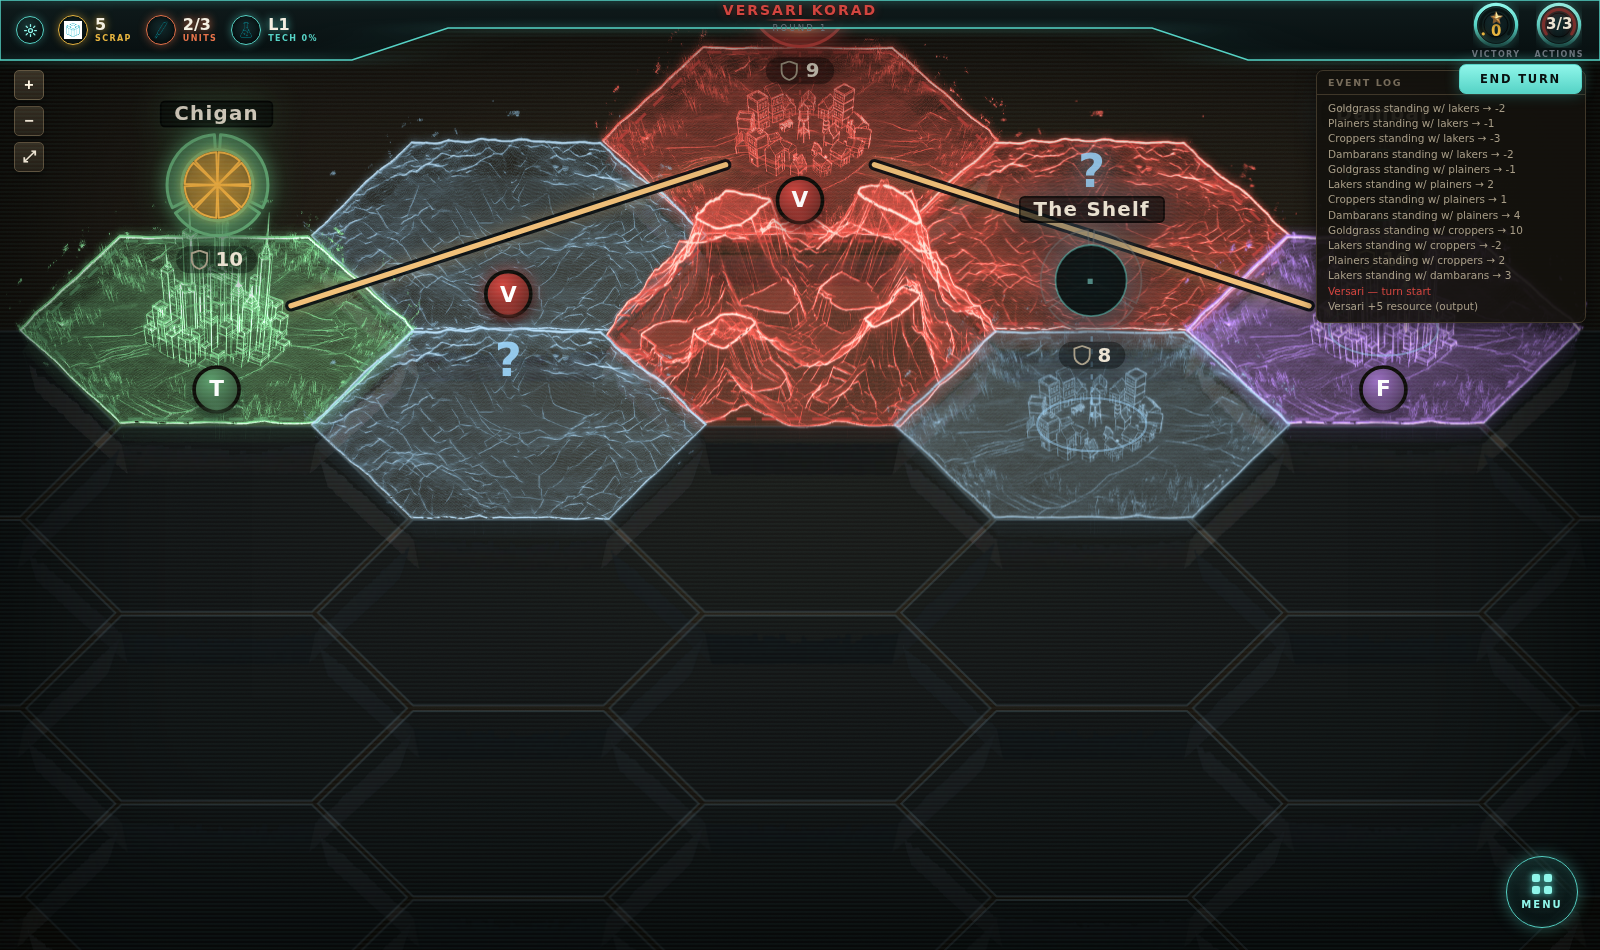
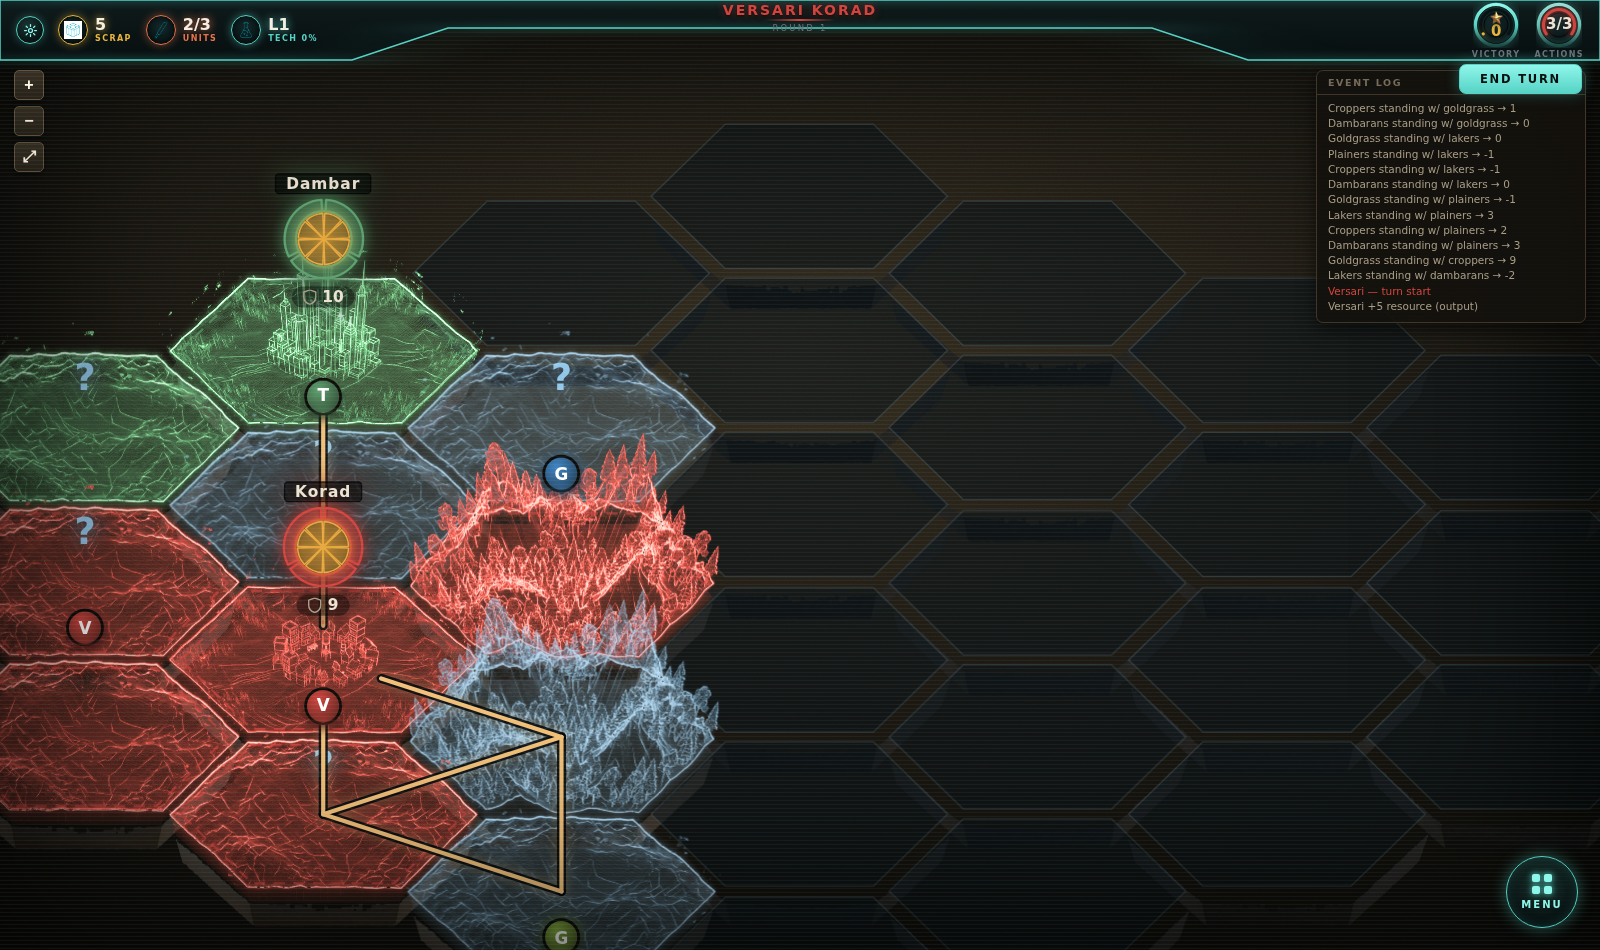
Roads connect settlements; lift the tiles slightly off each other
GAP 1.0 -> 1.05. Flush was mathematically right but the plinths touched and
the board read as one poured slab; a few percent of air brings back the sense
of separate pieces without opening real gaps in the grid.

Roads now link settlements rather than the four capitals. Every Location gets
a road to its nearest neighbour, high/veryHigh ones also to their second
nearest (CONFIG.roads.linksByValue), and any leftover clusters are bridged by
the cheapest links until the network is connected -- a road system with
unreachable islands would silently break supply and blockade. Verified across
40 seeds: every settlement sits on a road and reaches every other settlement
travelling only on road hexes.

This is what gives the blockade design something to bite on.
docs/rail-road-blockade-design.md funds a blockade through "an uninterrupted
road connection to the nearest owned settlement", which only means anything
if such a connection generally exists; under the old capitals-only spanning
tree it usually did not.

Density goes from ~11 road hexes of 30 to ~17, measured over the same 40
seeds. That is a real movement change, not just a cosmetic one -- road
negates forest cost and the mountain halt, so a bit over half the board is
now fast lane. Flagged rather than pre-emptively tuned; linksByValue is the
dial if it proves too generous.

Claude-Session: https://claude.ai/code/session_01CFR3jPAkaNDiE6VcyX7AG5

diff --git a/src/game/board.js b/src/game/board.js
@@ -220,33 +220,76 @@ export function shortestPathHexes(adjacency, a, b) {
   return path;
 }
 
-// §16.2 roads — lay a deterministic road network: a minimum spanning tree
-// (Prim's, by hop distance) over the given `hubHexes` — the faction capitals —
-// with each tree edge's shortest path stamped `road`. The result is a few main
-// corridors between the powers (negating terrain movement cost along them), so
-// the wilderness off-road still matters and the roads become contested lanes.
-// Operates on the live `hexes` map (sets hexes[id].road = true).
-export function assignRoads(adjacency, hexes, hubHexes) {
-  const hubs = [...new Set(hubHexes)].filter((h) => hexes[h]);
-  if (hubs.length < 2) return;
+// §16.2 roads — roads connect SETTLEMENTS, because that is what makes them
+// mean something. A road that merely links the four capitals is a handful of
+// corridors through empty country; a road network that ties every Location to
+// its neighbours is the thing a blockade can actually cut
+// (docs/rail-road-blockade-design.md §3 funds a blockade through "an
+// uninterrupted road connection to the nearest owned settlement" — that
+// sentence only has teeth if such a connection generally exists).
+//
+// The rule:
+//   * every settlement gets a road to its NEAREST other settlement;
+//   * a settlement big enough (CONFIG.roads.linksByValue) also gets one to its
+//     SECOND nearest, which is what turns a chain into a network;
+//   * finally, if that still leaves separate clusters, the cheapest links
+//     between them are added until the network is connected — a road system
+//     with unreachable islands would silently break supply and blockade.
+//
+// Links are undirected and deduplicated, so A→B and B→A lay one road. Every
+// link stamps `road` along a shortest hex path, so roads remain a per-hex
+// terrain property exactly as before; only which hexes get stamped changes.
+export function assignRoads(adjacency, hexes, settlementHexes, valueOfHex = () => "medium") {
+  const nodes = [...new Set(settlementHexes)].filter((h) => hexes[h]);
+  if (nodes.length < 2) return [];
   const distCache = {};
   const distFrom = (h) => (distCache[h] ||= bfsDistances(adjacency, h));
-  const inTree = new Set([hubs[0]]);
-  while (inTree.size < hubs.length) {
+
+  const links = new Map(); // "a|b" (sorted) -> [a, b]
+  const addLink = (a, b) => {
+    if (a === b) return;
+    const key = a < b ? `${a}|${b}` : `${b}|${a}`;
+    if (!links.has(key)) links.set(key, a < b ? [a, b] : [b, a]);
+  };
+
+  // nearest / second-nearest, ties broken by hexId so the map is deterministic
+  for (const a of nodes) {
+    const da = distFrom(a);
+    const ranked = nodes
+      .filter((b) => b !== a && da[b] !== undefined)
+      .sort((p, q) => (da[p] - da[q]) || (p < q ? -1 : 1));
+    const want = CONFIG.roads.linksByValue[valueOfHex(a)] ?? 1;
+    for (let i = 0; i < Math.min(want, ranked.length); i++) addLink(a, ranked[i]);
+  }
+
+  // union-find over the links so far, then bridge any remaining clusters
+  const parent = {};
+  const find = (x) => (parent[x] === undefined || parent[x] === x ? (parent[x] = x)
+    : (parent[x] = find(parent[x])));
+  const union = (x, y) => { parent[find(x)] = find(y); };
+  for (const [a, b] of links.values()) union(a, b);
+  for (;;) {
+    const roots = new Set(nodes.map(find));
+    if (roots.size <= 1) break;
     let best = null;
-    for (const a of inTree) {
+    for (const a of nodes) {
       const da = distFrom(a);
-      for (const b of hubs) {
-        if (inTree.has(b)) continue;
-        const d = da[b];
-        if (d === undefined) continue;
-        if (!best || d < best.d || (d === best.d && b < best.b)) best = { a, b, d };
+      for (const b of nodes) {
+        if (find(a) === find(b) || da[b] === undefined) continue;
+        if (!best || da[b] < best.d || (da[b] === best.d && `${a}|${b}` < `${best.a}|${best.b}`)) {
+          best = { a, b, d: da[b] };
+        }
       }
     }
-    if (!best) break;
-    inTree.add(best.b);
-    for (const hex of shortestPathHexes(adjacency, best.a, best.b)) hexes[hex].road = true;
+    if (!best) break; // genuinely unreachable on this graph — nothing to add
+    addLink(best.a, best.b);
+    union(best.a, best.b);
   }
+
+  for (const [a, b] of links.values()) {
+    for (const hex of shortestPathHexes(adjacency, a, b)) hexes[hex].road = true;
+  }
+  return [...links.values()];
 }
 
 // Constrained-random layout: place the 10 Locations, then fill the rest

diff --git a/src/prototype/hexProjection.js b/src/prototype/hexProjection.js
@@ -50,13 +50,12 @@ export const HEX_H = FRAME.hexH * UNIT_Y;     // projected height of the top fac
 export const HEX_FLAT = FRAME.hexFlat * UNIT; // length of the top/bottom edges
 export const SKIRT_H = FRAME.skirt * UNIT_Y;  // plinth depth below the near edge
 
-// Tiles pack flush: the plinths meet and the board reads as one continuous map
-// table rather than a scatter of floating dioramas. The cost is occlusion —
-// the art reaches up to ~290 source units above the centreline against a
-// 428-unit vertical pitch, so a tall tile hides part of the tile behind it —
-// and that is an accepted trade. Raising this above 1 floats the tiles apart
-// again and buys the clearance back.
-export const GAP = 1.0;
+// Tiles sit just clear of each other. 1.0 is flush — mathematically correct,
+// but the plinths then touch and the board reads as one poured slab with no
+// seam to tell tiles apart. A few percent of air restores the sense of
+// separate pieces on a table without opening real gaps in the hex grid.
+// Raise it further to float the tiles properly apart.
+export const GAP = 1.05;
 // Tiling vectors for a hexagon with opposite sides parallel and equal. The
 // familiar 0.75 * W only holds for a REGULAR hexagon (flat edge = W/2); these
 // rectified tiles are regular, so this reduces to the textbook 0.75 * W — but

diff --git a/src/game/config.js b/src/game/config.js
@@ -113,6 +113,16 @@ export const CONFIG = {
   // across the board; the Loyalty-6 bonus slot still adds one more.
   chipSlotsByValue: { low: 1, medium: 2, high: 3, veryHigh: 4 },
 
+  // §16.2 roads. Every settlement is road-linked to its nearest neighbour;
+  // bigger ones also reach their second-nearest, which is what turns a chain
+  // of towns into a network with alternate routes worth cutting. Raising the
+  // high/veryHigh numbers thickens the network (and makes blockades less
+  // decisive, since traffic can route around); lowering them to 1 across the
+  // board yields a bare spanning chain.
+  roads: {
+    linksByValue: { low: 1, medium: 1, high: 2, veryHigh: 2 },
+  },
+
   // The v0.1 test board.
   testMap: [3, 4, 5, 6, 5, 4, 3], // 30 hexes
   hexSplit: { location: 10, encounter: 13, terrain: 7 },

diff --git a/src/game/setup.js b/src/game/setup.js
@@ -73,7 +73,12 @@ export function createGame({
   // §16.2 — lay road corridors between the faction capitals (deterministic
   // MST over the start hexes). Roads negate terrain movement cost along the
   // lane (a fast, contestable highway); cover/visibility are unaffected.
-  assignRoads(grid.adjacency, hexes, Object.values(layout.factionStart));
+  // Roads tie settlements together, not just capitals — see assignRoads. The
+  // value lookup drives how many links each one gets, so a city is a hub and a
+  // town is a stop on the way.
+  const settlementHexes = Object.keys(layout.placement);
+  assignRoads(grid.adjacency, hexes, settlementHexes,
+    (hexId) => LOCATIONS[layout.placement[hexId]]?.strategicValue || "medium");
 
   // --- players ---
   const players = {};

diff --git a/docs/holographic-hex-board-plan.md b/docs/holographic-hex-board-plan.md
@@ -183,6 +183,14 @@ This is a genuine upgrade over the current black/50%-dim treatment.
 
 ### 2.8 Roads and rails ride over the tiles
 
+Roads connect **settlements**, not just capitals: every Location is road-linked
+to its nearest neighbour, and `high`/`veryHigh` ones also to their second
+nearest, with cluster-bridging links added afterwards so the network is always
+connected (`assignRoads`, `CONFIG.roads.linksByValue`). That takes the network
+from ~11 road hexes of 30 to ~17, and it is what gives the blockade design its
+teeth — "an uninterrupted road connection to the nearest owned settlement"
+(rail/blockade doc §3) only means something if such a connection exists.
+
 `hex.road` is a per-hex boolean, not an edge list, so `RouteNetwork.jsx`
 recovers a drawable network by linking each road hex to its road neighbours —
 re-deriving adjacency with the engine's own rule rather than from screen
@@ -380,12 +388,13 @@ open coast 3, coast town 1, coast city 1. Flat is the pool that matters most —
 the same `plains_hills`. Two or three more plain/rolling inland masters would
 fix roughly half the board.
 
-**Q10 — Where does rail come from?** `RouteNetwork.jsx` draws rails today, but
-`hex.rail` does not exist: no field, no generator, no movement rule (P9). The
-renderer reads the field, so rails appear the moment the board stamps them.
-Either the engine grows a real rail network (a second pass like `assignRoads`,
-plus whatever rail is supposed to *do*), or say the word and I'll generate a
-display-only one at setup.
+**Q10 — Rail.** The design is settled in
+`docs/rail-road-blockade-design.md` (I missed that doc first time round and
+wrongly reported rail as undesigned — it is undesigned only in *code*). What is
+missing is the implementation. `RouteNetwork.jsx` already draws rails off a
+`hex.rail` field, so they appear the moment the engine stamps one. Open items
+are that doc's own list, plus one contradiction: rail there is **player-built**,
+which conflicts with routes being static "rendered at start time".
 
 **Q11 — Should Dambar still be a Versari home Location?** Capitals are now
 declared explicitly (Versari korad, Goldgrass kansit, Lakers droit, Plainers
